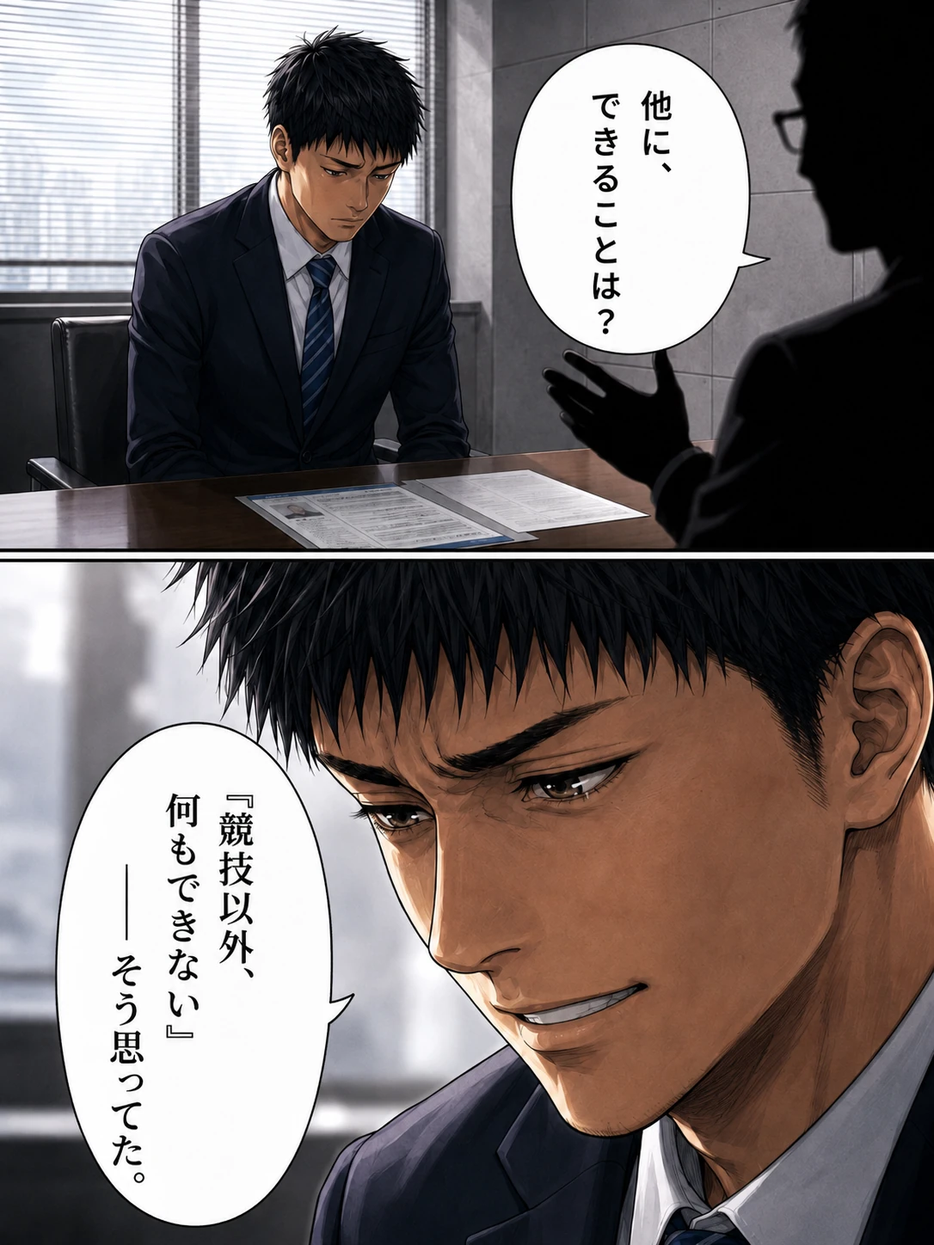
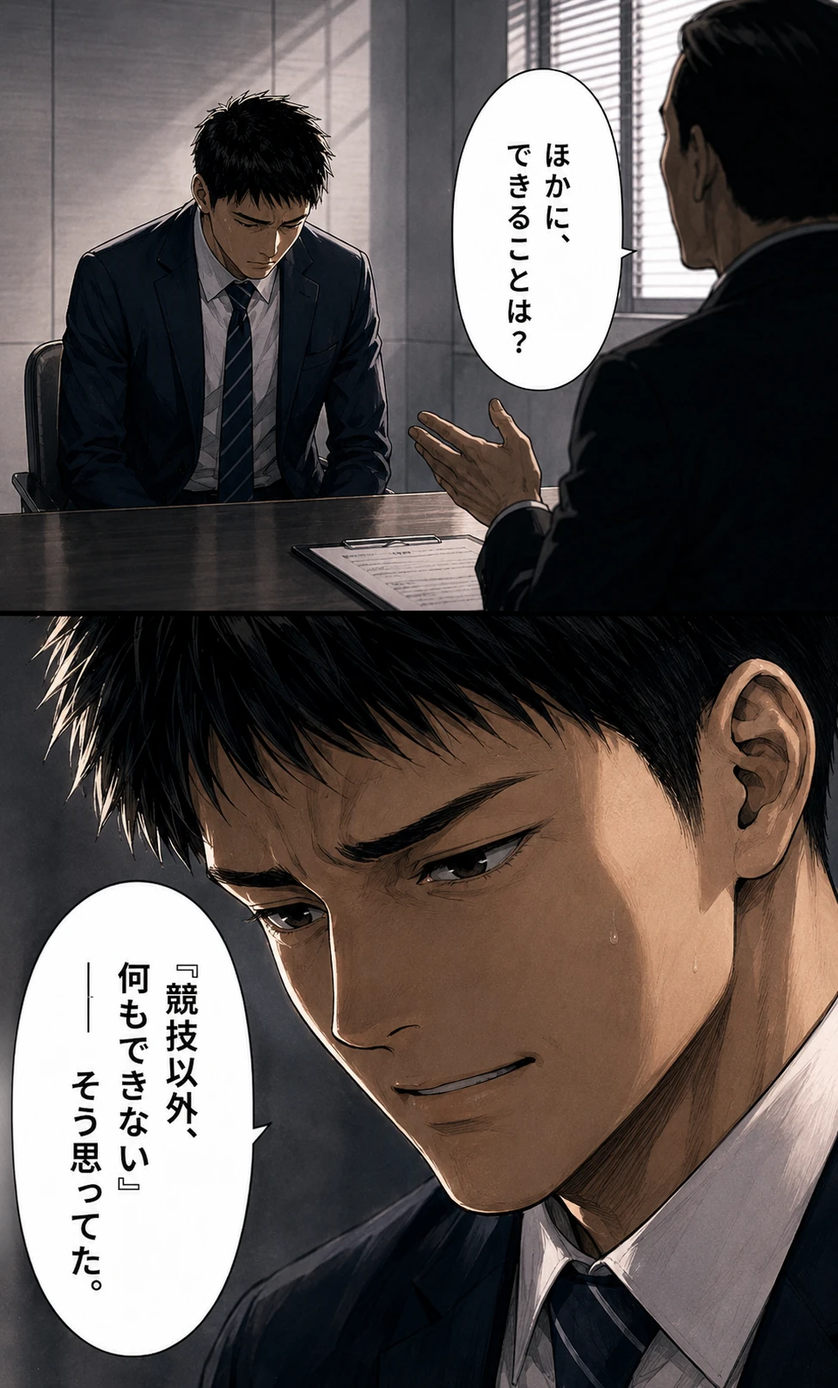
feat(manga): refresh all 17 manga images to v3 (Nishino/Harry), 12-page layout; reorder /manga to cover-intro-toc-body-spine; sync /ebook and profile (Harry, London, Anthropic 13 certs, career label, 40+ books)

diff --git a/app/ebook/page.tsx b/app/ebook/page.tsx
@@ -7,7 +7,7 @@ export const metadata = {
     description: 'AIが経験を90日で講座に変える。引退に揺れる選手の物語とともに読む、アスリートのためのセカンドキャリア起業入門。',
 };
 
-function MangaPair({ a, b, alt, ratio = '1086 / 1448' }: { a: string; b: string; alt: string; ratio?: string }) {
+function MangaPair({ a, b, alt, ratio = '975 / 1614' }: { a: string; b: string; alt: string; ratio?: string }) {
     return (
         <div className="my-10 flex flex-col items-center gap-3">
             <img src={`/2ndcareer/manga/${a}.webp`} alt={`${alt} 1`} loading="lazy" style={{ aspectRatio: ratio }} className="h-auto w-full max-w-[560px] rounded-sm shadow-xl shadow-black/10 ring-1 ring-slate-200" />
@@ -67,7 +67,7 @@ export default function EbookPage() {
                             サッカー選手の起業入門
                         </h1>
                         <p className="mt-4 text-lg text-slate-300">AIが経験を90日で講座に変える</p>
-                        <p className="mt-6 text-sm text-slate-400">著者　西野 直哉</p>
+                        <p className="mt-6 text-sm text-slate-400">著者　西野 直哉（Harry）</p>
                     </div>
                 </Container>
                 <div className="mx-auto flex max-w-[420px] justify-center px-4 pb-14">
@@ -88,7 +88,7 @@ export default function EbookPage() {
                         <ol className="mt-6 space-y-4 text-lg text-slate-700 md:text-xl">
                             <li><a href="#intro" className="transition-colors hover:text-accent">はじめに</a></li>
                             <li><a href="#ch1" className="transition-colors hover:text-accent">第1章　引退の日に気づいた現実。セカンドキャリアの壁</a></li>
-                            <li><a href="#ch2" className="transition-colors hover:text-accent">第2章　あなたの競技経験は、売れる商品だ。ゼロから始めた男の話</a></li>
+                            <li><a href="#ch2" className="transition-colors hover:text-accent">第2章　あなたの競技経験は、売れる商品だ。経験を商品に変える専門家の視点</a></li>
                             <li><a href="#ch3" className="transition-colors hover:text-accent">第3章　AIが経験を90日で講座に変える。KIWAMI 15ステップ</a></li>
                             <li><a href="#ch4" className="transition-colors hover:text-accent">第4章　なぜ、今こそ電子書籍を出すのか。ノーリスクで信頼と集客を生む方法</a></li>
                             <li><a href="#ch5" className="transition-colors hover:text-accent">第5章　教える側から、仕組みを持つ側へ。競技人生は終わらない</a></li>
@@ -101,10 +101,11 @@ export default function EbookPage() {
                         <MangaPair a="intro-1" b="intro-2" alt="はじめに" />
                         <P>正直に言わせてください。この本は、「自分には競技しかなかった」と一度でも感じたことのある、あなたのために書きました。</P>
                         <P>現役のころ、あなたは毎日ボールを追い、体を追い込み、勝つためだけに時間を使ってきたと思います。仲間と笑い、悔しさで眠れない夜を越え、応援してくれる人の顔を思い浮かべながらピッチに立ってきた。その日々は、まぎれもなく本物です。けれど、引退という二文字が近づいてきたとき、多くの選手が同じことを口にします。自分には、これしかなかった、と。</P>
-                        <P>私はこれまで、何人もの元アスリートと話をしてきました。彼らに共通していたのは、経験はあるのに、それをどう使えばいいのか分からない、という戸惑いでした。資格があるわけでもない。パソコンやAIには苦手意識がある。新しいことを学ぶ時間も、気持ちの余裕もない。だから、とりあえず就職を選び、面接で「他にできることは？」と聞かれて言葉に詰まる。その瞬間、自分の十二年が、まるで価値のないものに思えてしまう。</P>
+                        <P>私はこれまで、何人もの元アスリートと話をしてきました。彼らに共通していたのは、経験はあるのに、それをどう使えばいいのか分からない、という戸惑いでした。資格があるわけでもない。パソコンやAIには苦手意識がある。新しいことを学ぶ時間も、気持ちの余裕もない。だから、とりあえず就職を選び、面接で「他にできることは？」と聞かれて言葉に詰まる。その瞬間、自分のこれまでが、まるで価値のないものに思えてしまう。</P>
                         <P>でも、はっきり言います。それは、ただの思い込みです。</P>
                         <P>あなたが競技で積み上げてきたのは、努力の続け方であり、緊張との付き合い方であり、チームを動かす感覚であり、結果から逆算してやり切る力です。これらは、ビジネスの世界がいま喉から手が出るほど欲しがっている力で、そのまま誰かのためのお金に換えられます。問題は、あなたの能力ではありません。経験をお金に換える設計図を、これまで誰も教えてくれなかった。ただ、それだけのことなのです。</P>
-                        <P>私自身、最初から経営者だったわけではありません。たった一つの小さな悩みをきっかけに、ひとりでゼロから事業を始めました。失敗も、遠回りもしました。それでも今は、複数の事業を回し、地元のスポーツ選手たちが通ってくれる店を持つまでになりました。だからこそ言えます。ゼロからでも、人は次の現役になれる、と。</P>
+                        <P>ここで、私自身のことを少しだけお話しさせてください。私は、元プロ選手ではありません。グラウンドの上で、あなたと同じ重圧を背負った当事者ではない。そのことは、はじめに正直にお伝えしておきます。私が約二十五年やってきたのは、海外営業と外国人材の事業でした。若いころにはロンドンに二年ほど暮らし、現地の貿易会社で働いた経験もあります。日本語の名前が発音しにくく、向こうではハリーと呼ばれていました。海外では、起業や事業を起こすことが当たり前の習慣で、その感覚が、いまの私の土台になっています。ある人や、ある国が持っているものを、それを必要としている別の誰かへ、売れる形にして届ける。その橋渡しを続けるなかで、ある事業では七つの国で代理店契約をまとめ、粗利率を五パーセントから五十パーセントへ引き上げました。あわせて、電子書籍とマンガを四十冊以上出版し、いまはAIを使って、人の経験を講座という形に組み上げる支援を専門にしています。Anthropic公認のAI資格も、十三個を取得しています。</P>
+                        <P>なぜ、当事者でもない私が、アスリートのセカンドキャリアの本を書くのか。理由は二つあります。一つは、私が長年やってきた、経験を売れる形に翻訳するという仕事が、いまのあなたにいちばん必要な技術だからです。もう一つは、私自身がロンドンで入門し、二十年以上続けてきた合気道を通じて、勝負の世界の厳しさや、その世界から一歩引いたときのさみしさの一端に、触れてきたからです。当事者にはなれません。けれど、当事者ではないからこそ、外側から冷静に、あなたの経験の値打ちを見つけて、言葉にすることができます。</P>
                         <P>そしていま、私たちには心強い味方がいます。AIです。かつては専門家チームを雇い、何百万円もかけて作っていた講座や集客の仕組みを、AIはあなたの言葉を聞き取りながら、わずか九十日で形にしてくれます。難しいプログラミングはいりません。必要なのは、あなたの経験と、ほんの少しの勇気だけです。</P>
                         <P>この本では、引退に揺れるひとりのサッカー選手、里見駿の物語を、各章の頭にマンガで挟みながら進めていきます。彼の歩みは、そのままあなたの歩みになるはずです。読み終えたとき、競技人生は終わりじゃなかった、と心から思えること。それが、私がこの本に込めたい約束です。</P>
                         <P>では、あなたの次のゴールを、ここから一緒に設計していきましょう。</P>
@@ -119,20 +120,21 @@ export default function EbookPage() {
                         <P>まず、肩書きが消えることです。現役のあいだ、あなたはプロ選手として、あのチームの誰々として見られてきました。その肩書きは、社会的な信用そのものでした。ところが引退すると、その看板はあっけなく外れます。すると、自分の力だと思っていたものの多くが、じつは所属の力だったと気づかされる。これは恥ずかしいことではありません。会社員が定年で名刺を失うのと、まったく同じ構造です。本当の問題は、肩書きが消えたあとに残る自分の資産を、誰も棚卸ししてくれないことなのです。</P>
                         <P>次に、翻訳がないことです。あなたは競技の現場で、膨大な知恵を蓄えてきました。けれど、それをビジネスの言葉に翻訳するやり方を、習ってきませんでした。たとえば、毎日の自主練を三年続けた、という経験。これはビジネスの言葉に直すと、目標から逆算して、地味な作業を淡々と継続できる自己管理能力になります。チームの空気を変えた、という経験は、人を巻き込み、場のやる気を設計する力です。能力はじゅうぶんにあるのに、その価値を相手に伝える言葉を持っていないだけで、面接でも商談でも損をしてしまう。もったいない話です。</P>
                         <P>そして三つめ。最初の一歩を描く地図がないことです。自分の経験を活かしたい、副収入もほしい。そう思っても、何から始めればいいのか分からない。ネットで調べても断片的なノウハウばかりで、自分の場合にどう当てはめればいいのか見えてこない。気づけば、忙しい、時間がない、を理由に、一歩目を踏み出せないまま時間だけが過ぎていく。</P>
-                        <P>ここで、どうしても伝えておきたいことがあります。これらはすべて、あなたの能力不足ではありません。肩書きの喪失も、翻訳のなさも、地図の欠如も、ぜんぶ、やり方を知らなかっただけです。やり方さえ手に入れば、あなたの十二年は、何ひとつ無駄になりません。むしろ、ここからが本番です。</P>
+                        <P>ここで、どうしても伝えておきたいことがあります。これらはすべて、あなたの能力不足ではありません。肩書きの喪失も、翻訳のなさも、地図の欠如も、ぜんぶ、やり方を知らなかっただけです。やり方さえ手に入れば、あなたのこれまでは、何ひとつ無駄になりません。むしろ、ここからが本番です。</P>
                         <P>里見は、面接の場で、担当者から他にできることはと問われ、うつむきました。そして心の中でつぶやきます。競技以外、何もできない。そう思っていた、と。けれど、この思っていた、という過去形にこそ、希望があります。思い込みは、外せるからです。</P>
                         <P>少しだけ、手を動かしてみてほしいんです。紙でも、スマホのメモでもかまいません。競技を通じて身についた力を、十個書き出してみてください。礼儀正しさでも、悔しさをバネにする力でもいい。書ききれないと感じたら、それがあなたの資産です。逆に、手が止まってしまったら、それは翻訳のやり方をまだ知らないというサインにすぎません。</P>
-                        <P>この章で覚えておいてほしいのは、たった一つです。競技人生は、ゴールではなく素材だということ。素材は、料理のしかた次第で、いくらでも価値のある一皿に変わります。次の章では、その素材が実際に売れる商品へと変わっていく瞬間を、里見の物語とともに見ていきます。彼が、ある経営者と出会うところから、すべては動き出します。</P>
+                        <P>この章で覚えておいてほしいのは、たった一つです。競技人生は、ゴールではなく素材だということ。素材は、料理のしかた次第で、いくらでも価値のある一皿に変わります。次の章では、その素材が実際に売れる商品へと変わっていく瞬間を、里見の物語とともに見ていきます。彼が、ある人物と出会うところから、すべては動き出します。</P>
                     </Chapter>
 
                     {/* 第2章 */}
-                    <Chapter id="ch2" kicker="Chapter 2" title="あなたの競技経験は、売れる商品だ" sub="ゼロから始めた男の話">
+                    <Chapter id="ch2" kicker="Chapter 2" title="あなたの競技経験は、売れる商品だ" sub="経験を商品に変える専門家の視点">
                         <MangaPair a="3" b="4" alt="第2章" />
-                        <P>落ち込んでいた里見が、ある日、ひとりの経営者と向き合うことになります。明るいカフェで、その人は身を乗り出して、こう言いました。その十二年、売れる講座に化けますよ、と。</P>
+                        <P>落ち込んでいた里見が、ある日、ひとりの人物と向き合うことになります。明るいカフェで、その人は身を乗り出して、こう言いました。その十二年、売れる講座に化けますよ、と。</P>
+                        <P>じつは、里見が出会ったその相手というのが、この本を書いている私です。私は二十五年にわたって、人やモノの価値を、それを必要とする相手に売れる形で届ける仕事をしてきました。その経験から、彼の十二年のなかに眠っている商品の種が、はっきりと見えたのです。</P>
                         <P>里見は驚きます。自分の経験が、商品に。そう、まさにこの発想の転換こそが、セカンドキャリアの最初の鍵です。多くの人は、商品と聞くと、形のあるモノや、特別な資格を思い浮かべます。けれどいまの時代は、経験や知識そのものが、もっとも価値の高い商品になります。これをコンテンツビジネスと呼びます。</P>
                         <P>考えてみてください。サッカーがうまくなりたい子ども、伸び悩む高校生、わが子を応援したい親、社会人になっても上達したい大人。世の中には、あなたが当たり前にできることを、お金を払ってでも学びたい人が、想像以上にたくさんいます。あなたにとっての常識は、初心者にとっての宝の地図なのです。</P>
-                        <P>ここで、私自身の話を少しさせてください。私は、特別な才能があって経営者になったわけではありません。たった一つの小さな悩みをきっかけに、ゼロから店を開いたのが始まりでした。最初は不安だらけです。お客さまが来るのか、続けられるのか、毎晩のように考えました。それでも、目の前の人に誠実に向き合いつづけた結果、店は少しずつ広がり、いまでは三つの事業を回すところまで来ました。地元の選手たちも、私の店に通ってくれています。だから私は、競技のあとを生きるのは、自分の得意分野だと胸を張って言えるのです。</P>
-                        <P>なぜ、こんな話をするのか。それは、特別な人だけが起業できる、という思い込みが、いちばんもったいないからです。私もゼロからでした。あなたもゼロでかまいません。大事なのは才能ではなく、自分の経験を、誰かの役に立つ形に並べ替える、というたった一つの作業なのです。</P>
+                        <P>ここで、私がどうやってこの確信を持つに至ったかを、少しお話しします。私は元アスリートではありません。けれど、自分の経験や知識を商品の形にして世に出すという作業なら、人より多くこなしてきた自負があります。これまでに電子書籍を四十冊以上出版し、知識を一冊の本に変える工程を、何度も繰り返してきました。さらにいまは、AIを使って、人それぞれの経験を講座へと組み上げる支援を専門にしています。たくさんの人の経験を、外側から眺めて、これは売れる、ここが強みだ、と翻訳してきた。その積み重ねから、はっきり言えることがあります。経験を商品に変えられるかどうかは、才能ではなく、視点と手順の問題だということです。</P>
+                        <P>なぜ、こんな話をするのか。それは、特別な人だけが起業できる、という思い込みが、いちばんもったいないからです。私も、最初から本を書けたわけでも、講座を作れたわけでもありません。手順を知り、繰り返すうちにできるようになりました。あなたもゼロでかまいません。大事なのは才能ではなく、自分の経験を、誰かの役に立つ形に並べ替える、というたった一つの作業なのです。</P>
                         <P>では、あなたの経験を売れる商品に変えるには、何を考えればいいのか。難しく構える必要はありません。問いは三つだけです。</P>
                         <P>まず、誰の役に立てるのか。あなたの経験をいちばん必要としているのは、どんな人でしょう。少年サッカーの親かもしれないし、伸び悩む中高生かもしれない。あるいは、あなたと同じように引退に悩む後輩かもしれません。相手をひとりに絞るほど、あなたの言葉は深く刺さります。</P>
                         <P>次に、どんな悩みを解決できるのか。人がお金を払うのは、楽しいからだけではありません。多くの場合、悩みを解決したいからです。試合で緊張して実力が出せない。子どもへの教え方が分からない。そういう具体的な悩みに、あなたの経験は、すでに答えを持っているはずです。</P>
@@ -146,7 +148,7 @@ export default function EbookPage() {
                     <Chapter id="ch3" kicker="Chapter 3" title="AIが経験を90日で講座に変える" sub="KIWAMI 15ステップ">
                         <MangaPair a="5" b="6" alt="第3章" />
                         <P>経験が商品になるのは分かった。でも、講座を作るなんて専門家じゃないと無理でしょう。里見も、最初は同じことを考えていました。ところが、ノートパソコンの画面を見せられて、彼の表情が変わります。そこにあったのは、高単価講座・構築エンジン 極、という一つのAIツールでした。</P>
-                        <P>経営者は、笑顔でこう言います。AIが、君の経験を九十日で講座に変える。集客は、ツールが自動で回す。里見の口から、思わず言葉がこぼれます。教える側から、と。</P>
+                        <P>私は、笑顔でこう言います。AIが、君の経験を九十日で講座に変える。集客は、ツールが自動で回す。里見の口から、思わず言葉がこぼれます。教える側から、と。</P>
                         <P>ここで、AIにできることを、正直に整理しておきます。AIは魔法ではありません。けれど、考える材料を出す、文章を書く、整理して並べ替える、という作業については、人間の何十倍ものスピードで動いてくれます。これまで講座づくりは、企画、構成、コピー、販売ページ、メール、SNS投稿と、膨大な工程を一つずつ手作業でこなす必要がありました。その大半を、AIに下書きさせ、あなたは監督として判断するだけでよくなった。これが、いちばん大きな変化です。</P>
                         <P>では、具体的にどう進むのか。極というツールが設計している十五のステップを、順に紹介します。これが、あなたの経験を九十日で講座に変えていく設計図です。</P>
                         <ol className="mt-8 space-y-4">
@@ -182,7 +184,7 @@ export default function EbookPage() {
 
                     {/* 第4章 */}
                     <Chapter id="ch4" kicker="Chapter 4" title="なぜ、今こそ電子書籍を出すのか" sub="ノーリスクで信頼と集客を生む方法">
-                        <MangaPair a="9" b="10" alt="第4章" ratio="975 / 1614" />
+                        <MangaPair a="7" b="8" alt="第4章" />
                         <P>里見が講座の形を作りはじめたころ、私はもう一つの武器を差し出しました。講座を作ったら、次は本だ、と。里見は戸惑います。本ですか、文章なんて、まともに書いたこともないのに。けれど私は、にやりと笑って続けました。お金もリスクもかからない。本は、君の代わりに二十四時間働く名刺になるんだ、と。</P>
                         <P>この章では、なぜ私が、講座を作るすべての元アスリートに、電子書籍を出すことを強くすすめるのか、その理由を正直にお話しします。先に言ってしまえば、電子書籍は、いちばん安く、いちばんリスクが低く、それでいて一生モノの資産になる、現代のセカンドキャリアにおける最強の武器の一つだからです。</P>
                         <P>まず、お金とリスクの話から。出版と聞くと、多くの人が、何百万円もかかるのでは、売れ残ったらどうしよう、と身構えます。けれど電子書籍は違います。費用は、ほとんどかかりません。紙の本のような印刷代も製本代もいらず、アマゾンの仕組みを使えば、出版そのものの初期費用は、実質ゼロから始められます。在庫を抱える必要もありません。一冊も刷らずに、データだけで世界中に届けられるからです。そしてこれは意外と知られていませんが、返本が起きません。紙の出版の世界では、売れ残った本が書店から大量に戻ってくる、返本という大きなリスクがあります。電子書籍には、そもそもそれが存在しない。在庫のリスクも、返本のリスクもゼロ。これが、出版を、こわいものから気軽な一歩へと変えてくれるのです。</P>
@@ -199,10 +201,11 @@ export default function EbookPage() {
 
                     {/* 第5章 */}
                     <Chapter id="ch5" kicker="Chapter 5" title="教える側から、仕組みを持つ側へ" sub="競技人生は終わらない">
-                        <MangaPair a="7" b="8" alt="第5章" />
+                        <MangaPair a="9" b="10" alt="第5章" />
                         <P>里見が、ノートパソコンに向かって指示を出すと、画面には次々と成果物が立ち上がっていきました。販売ページの案、講座の台本の案、SNS投稿の案。彼は思わず声を上げます。指示を出すだけで、形になっていく。自分にも、作れるんだ、と。</P>
                         <P>この、自分にも作れるんだ、という実感こそが、セカンドキャリアでいちばん大きな転換点です。人は、頭で、できるかもしれない、と思っているうちは動けません。けれど、一度でも、自分の手で形にできたという小さな成功を味わうと、世界の見え方が変わります。不安が、自信に変わる瞬間です。</P>
                         <P>ここで、あらためて考えたいことがあります。教える側になるとは、どういうことか。それは、ただ知識を渡すことではありません。自分が乗り越えてきた道を、後から来る人のために舗装してあげることです。あなたが現役のころに味わった悔しさ、見つけたコツ、立ち直り方。その一つひとつが、誰かにとっての近道になります。教えるとは、あなたの過去を、未来の誰かのための資産に変える行為なのです。</P>
+                        <P>そして、講座は作って終わりではありません。知ってもらう仕組みも、いまは自動で回せます。エックスやインスタグラムで経験から生まれた気づきを発信し、反応してくれた人へ自動でメッセージを送り、無料の特典と引き換えにラインへ登録してもらう。ラインでは数日おきに価値ある話を順番に届け、信頼が育ったところで無料相談へそっと案内する。検索からは、ノートの記事が、あなたを知らない人を連れてくる。これらの記録を一つの台帳にまとめておけば、あなたが眠っているあいだも、仕組みは静かに働きつづけます。最初から完璧でなくていい。一つの発信、一つの特典、一通のメッセージから始めれば、十分です。</P>
                         <P>そして、この本のタイトルにも重なる、もう一段上の景色があります。仕組みを持つ側、という景色です。最初は、あなたがひとりひとりに直接教えるところから始まります。けれど、講座を動画やテキストにまとめ、申し込みから案内までを自動でつないでいくと、あなた自身が動かなくても、価値が届きつづける状態を作れます。</P>
                         <P>里見も、その景色にたどり着きます。練習場で、彼は後輩たちに向かって、自分の講座の中身を伝えていました。ホワイトボードには、競技のあとを生きる力、と書かれています。そして手元のスマホには、ライン登録がひとつ増えました、受講の申し込みが入りました、受講生の声が届いています、という通知が並んでいました。彼は、晴れやかな顔でつぶやきます。俺のサッカー人生は、終わりじゃなかった、と。</P>
                         <P>ここで、どうしても知っておいてほしいことがあります。仕組みは、一日では作れません。里見も、いきなりここまで来たわけではない。最初の一本を作り、勇気を出して世に出し、反応を見て直す。その地道な繰り返しの先に、この景色がありました。現役のころ、あなたが毎日の自主練を積み重ねてきたのと、まったく同じです。違うのは、積み上げる対象が、技術から仕組みに変わっただけ。あなたは、努力の積み重ね方を、誰よりも知っている人なのです。</P>
@@ -212,10 +215,10 @@ export default function EbookPage() {
 
                     {/* おわりに */}
                     <Chapter id="outro" kicker="Epilogue" title="おわりに">
-                        <MangaPair a="outro-1" b="outro-2" alt="おわりに" />
+                        <MangaPair a="11" b="12" alt="おわりに" />
                         <P>ここまで読んでくださって、本当にありがとうございます。</P>
-                        <P>最後に、もう一度だけ伝えたいことがあります。あなたの競技人生は、決して無駄ではなかった、ということです。流した汗も、眠れなかった夜も、勝った喜びも、負けた悔しさも、そのすべてが、これから誰かの役に立つ資産に変わっていきます。あなたは、ゼロから何かを始めるのではありません。十二年ぶんの、誰にも真似できない素材を、すでに手にしているのです。</P>
-                        <P>私は、海外でサッカーに打ち込んだ時間を経て、日本でゼロから事業を立ち上げました。順風満帆ではありませんでした。何度も不安になり、遠回りもしました。それでも、目の前の人に誠実に向き合いつづけた結果、いまがあります。だからこそ、引退に揺れるあなたの気持ちが、痛いほど分かります。そして、その不安の先に、必ず光があることも知っています。</P>
+                        <P>最後に、もう一度だけ伝えたいことがあります。あなたの競技人生は、決して無駄ではなかった、ということです。流した汗も、眠れなかった夜も、勝った喜びも、負けた悔しさも、そのすべてが、これから誰かの役に立つ資産に変わっていきます。あなたは、ゼロから何かを始めるのではありません。これまで積み上げてきた、誰にも真似できない素材を、すでに手にしているのです。</P>
+                        <P>私は元プロ選手ではありません。グラウンドであなたと同じ重圧を背負った当事者ではない。それでも、二十五年にわたって、人やモノの価値を売れる形に翻訳し、四十冊以上の本を世に出し、いまはAIで人の経験を講座に変える仕事をしてきました。そして合気道を続けるなかで、勝負の世界の厳しさや、その世界から離れるさみしさの一端にも、触れてきました。だからこそ、当事者にはなれなくても、外側からあなたの経験の値打ちを見つけ、言葉にして、次の収入へとつなげる手伝いなら、誰よりもできると思っています。</P>
                         <P>時代は、私たちの味方をしてくれています。かつては一部の人にしか手の届かなかった講座づくりも、集客の仕組みも、いまはAIという心強い助手が、あなたの隣で支えてくれる。必要なのは、特別な才能ではありません。一歩を踏み出す、ほんの少しの勇気だけです。</P>
                         <P>もし、この本を読んで、胸の奥がほんの少しでも熱くなったなら、その熱が冷めないうちに、動いてみてほしいんです。いちばんいいタイミングは、準備が整ったときではなく、決めたときに訪れます。一年後に、あのとき動いてよかった、と笑えるかどうかは、今日のあなたの小さな一歩にかかっています。</P>
                         <P>里見駿は、俺のサッカー人生は終わりじゃなかった、とつぶやきました。次にその言葉を口にするのは、あなたの番です。あなたの次のゴールを、一緒に作らせてください。まずは、気軽にラインで話を聞かせてください。こんな経験があるんだけど講座になるかな、そんな一言から、すべては始まります。</P>

diff --git a/app/manga/page.tsx b/app/manga/page.tsx
@@ -7,24 +7,24 @@ export const metadata = {
     description: 'マンガで読む「サッカー選手の起業入門」。引退に揺れる選手が、AIで経験を90日で講座に変えるまでの物語。',
 };
 
-// 読み順：表紙 → もくじ → はじめに → 本編（第1〜5章） → おわりに → 背表紙
+// 読み順：表紙 → はじめに → もくじ → 本編（1〜12） → 背表紙
 const pages: { src: string; alt: string }[] = [
-    { src: 'cover', alt: '表紙　サッカー選手の起業入門' },
-    { src: 'toc', alt: 'もくじ' },
+    { src: 'cover', alt: '表紙' },
     { src: 'intro-1', alt: 'はじめに 1' },
     { src: 'intro-2', alt: 'はじめに 2' },
+    { src: 'toc', alt: 'もくじ' },
     { src: '1', alt: '第1章 1' },
     { src: '2', alt: '第1章 2' },
     { src: '3', alt: '第2章 1' },
     { src: '4', alt: '第2章 2' },
     { src: '5', alt: '第3章 1' },
     { src: '6', alt: '第3章 2' },
-    { src: '9', alt: '第4章 1' },
-    { src: '10', alt: '第4章 2' },
-    { src: '7', alt: '第5章 1' },
-    { src: '8', alt: '第5章 2' },
-    { src: 'outro-1', alt: 'おわりに 1' },
-    { src: 'outro-2', alt: 'おわりに 2' },
+    { src: '7', alt: '第4章 1' },
+    { src: '8', alt: '第4章 2' },
+    { src: '9', alt: '第5章 1' },
+    { src: '10', alt: '第5章 2' },
+    { src: '11', alt: 'おわりに 1' },
+    { src: '12', alt: 'おわりに 2' },
     { src: 'spine', alt: '背表紙' },
 ];
 

diff --git a/components/profile.tsx b/components/profile.tsx
@@ -5,16 +5,18 @@ import { Container } from './ui/container';
 
 const members = [
     {
-        name: '西野 直哉',
+        name: '西野 直哉（Harry）',
         role: '代表 / 事業者',
         org: 'ワールドトレードネクスト',
         image: '/2ndcareer/profile-nishino.png',
         credentials: [
-            '国際営業・貿易業務 約25年',
+            '海外営業＆外国人材事業 約25年',
+            'ロンドンの貿易会社で勤務（約2年）',
             'AI講師・AIマーケティング',
+            'Anthropic公認資格 計13個取得',
             'Lark業務改善コンサルタント',
-            '電子書籍出版 40冊以上',
-            '合気道2段（全日本合気道連盟所属）',
+            '電子書籍・マンガ出版 40冊以上',
+            '合気道2段（ロンドンで入門・20年以上／全日本合気道連盟認定）',
         ],
         desc: '東京と地方の二拠点で事業を展開。25年以上の実務経験を活かし「スポーツ×ビジネス×AI」の交差点で、元アスリート・指導者のセカンドキャリア支援に取り組む。',
     },
